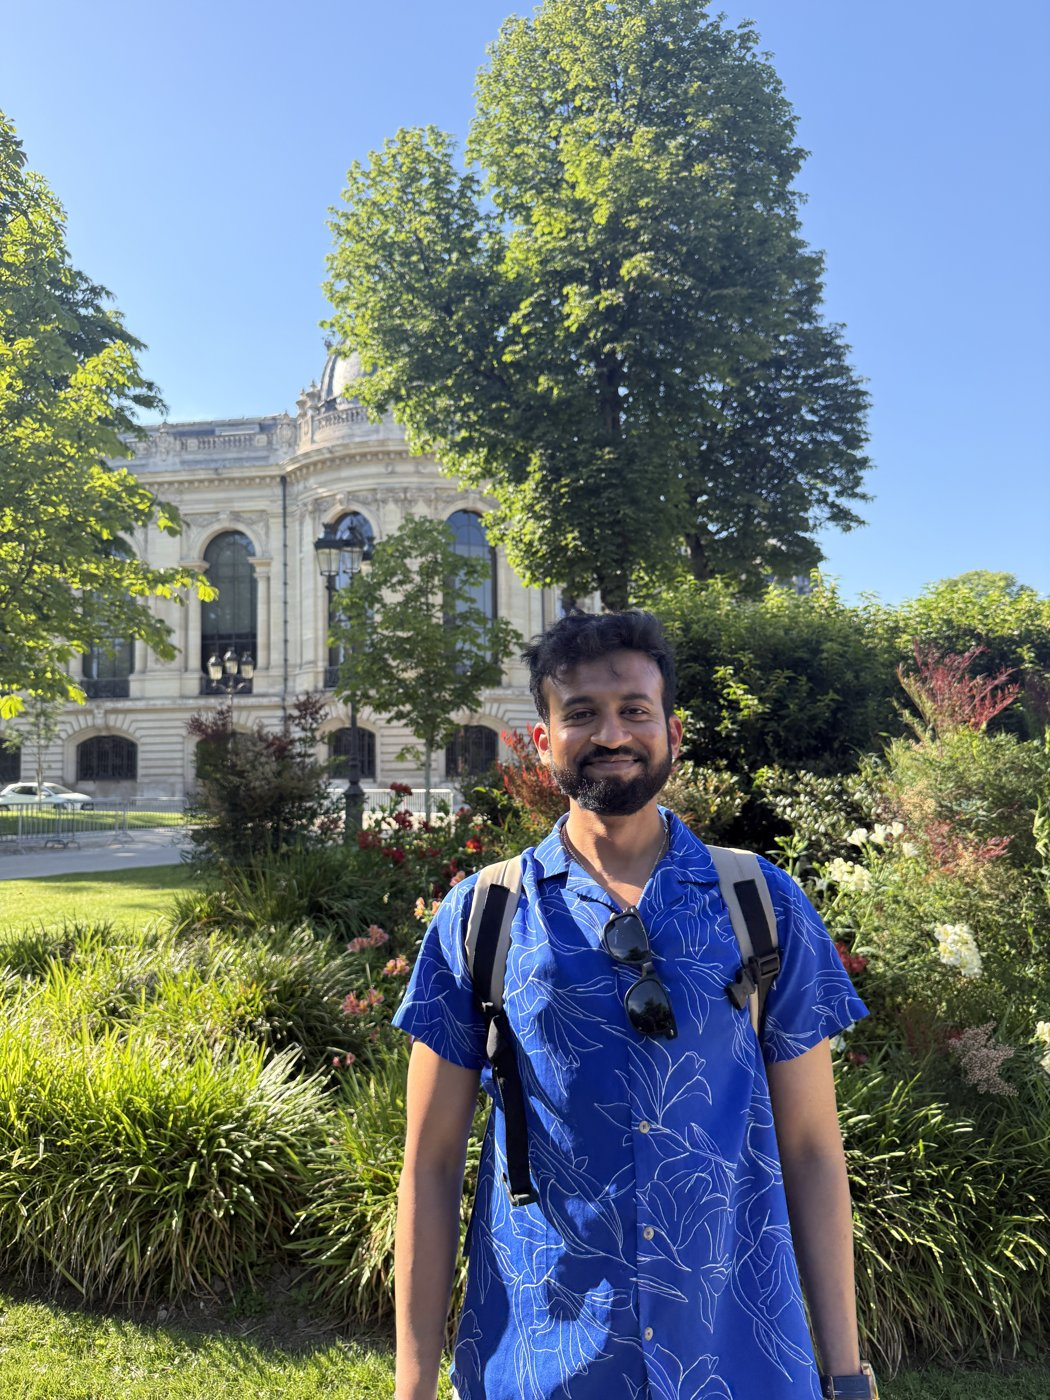
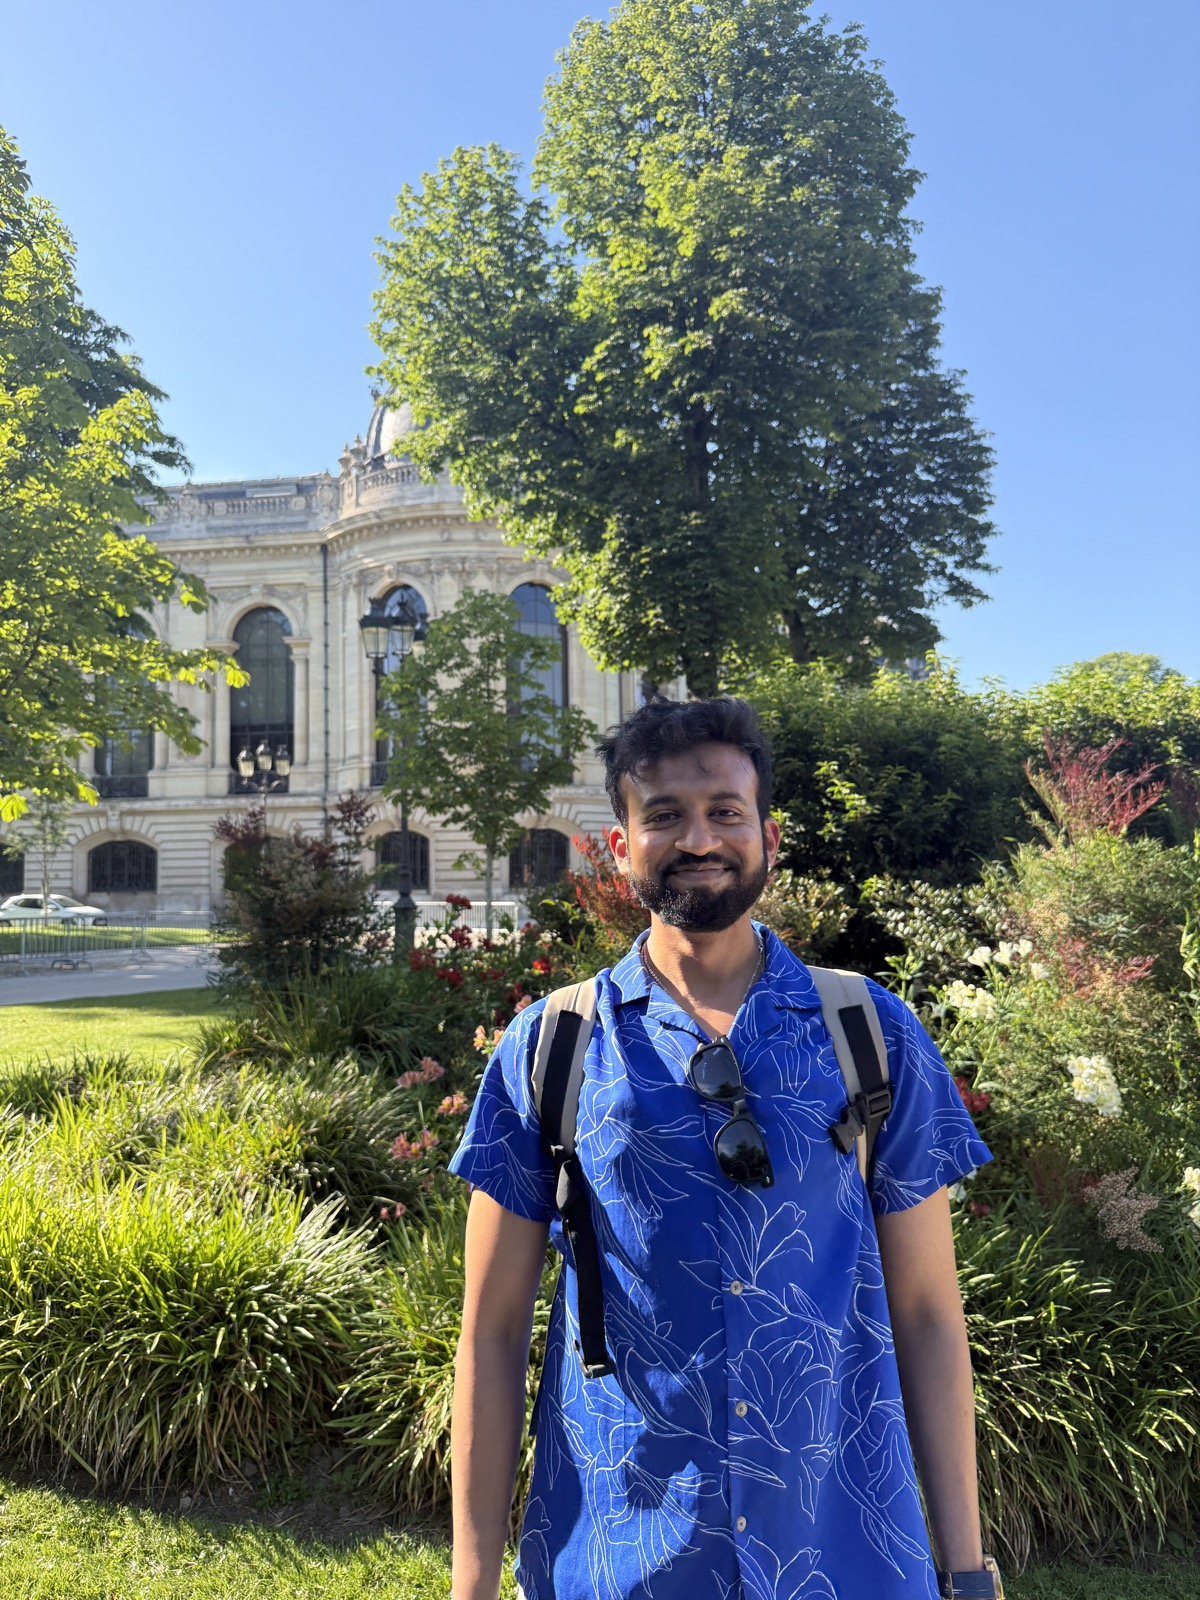
Replace headshot with Paris portrait, centered

diff --git a/src/app/about/page.tsx b/src/app/about/page.tsx
@@ -53,7 +53,7 @@ export default function AboutPage() {
               alt="Pavel"
               fill
               className="object-cover"
-              style={{ objectPosition: "center 62%" }}
+              style={{ objectPosition: "center 30%" }}
               quality={100}
               priority
             />